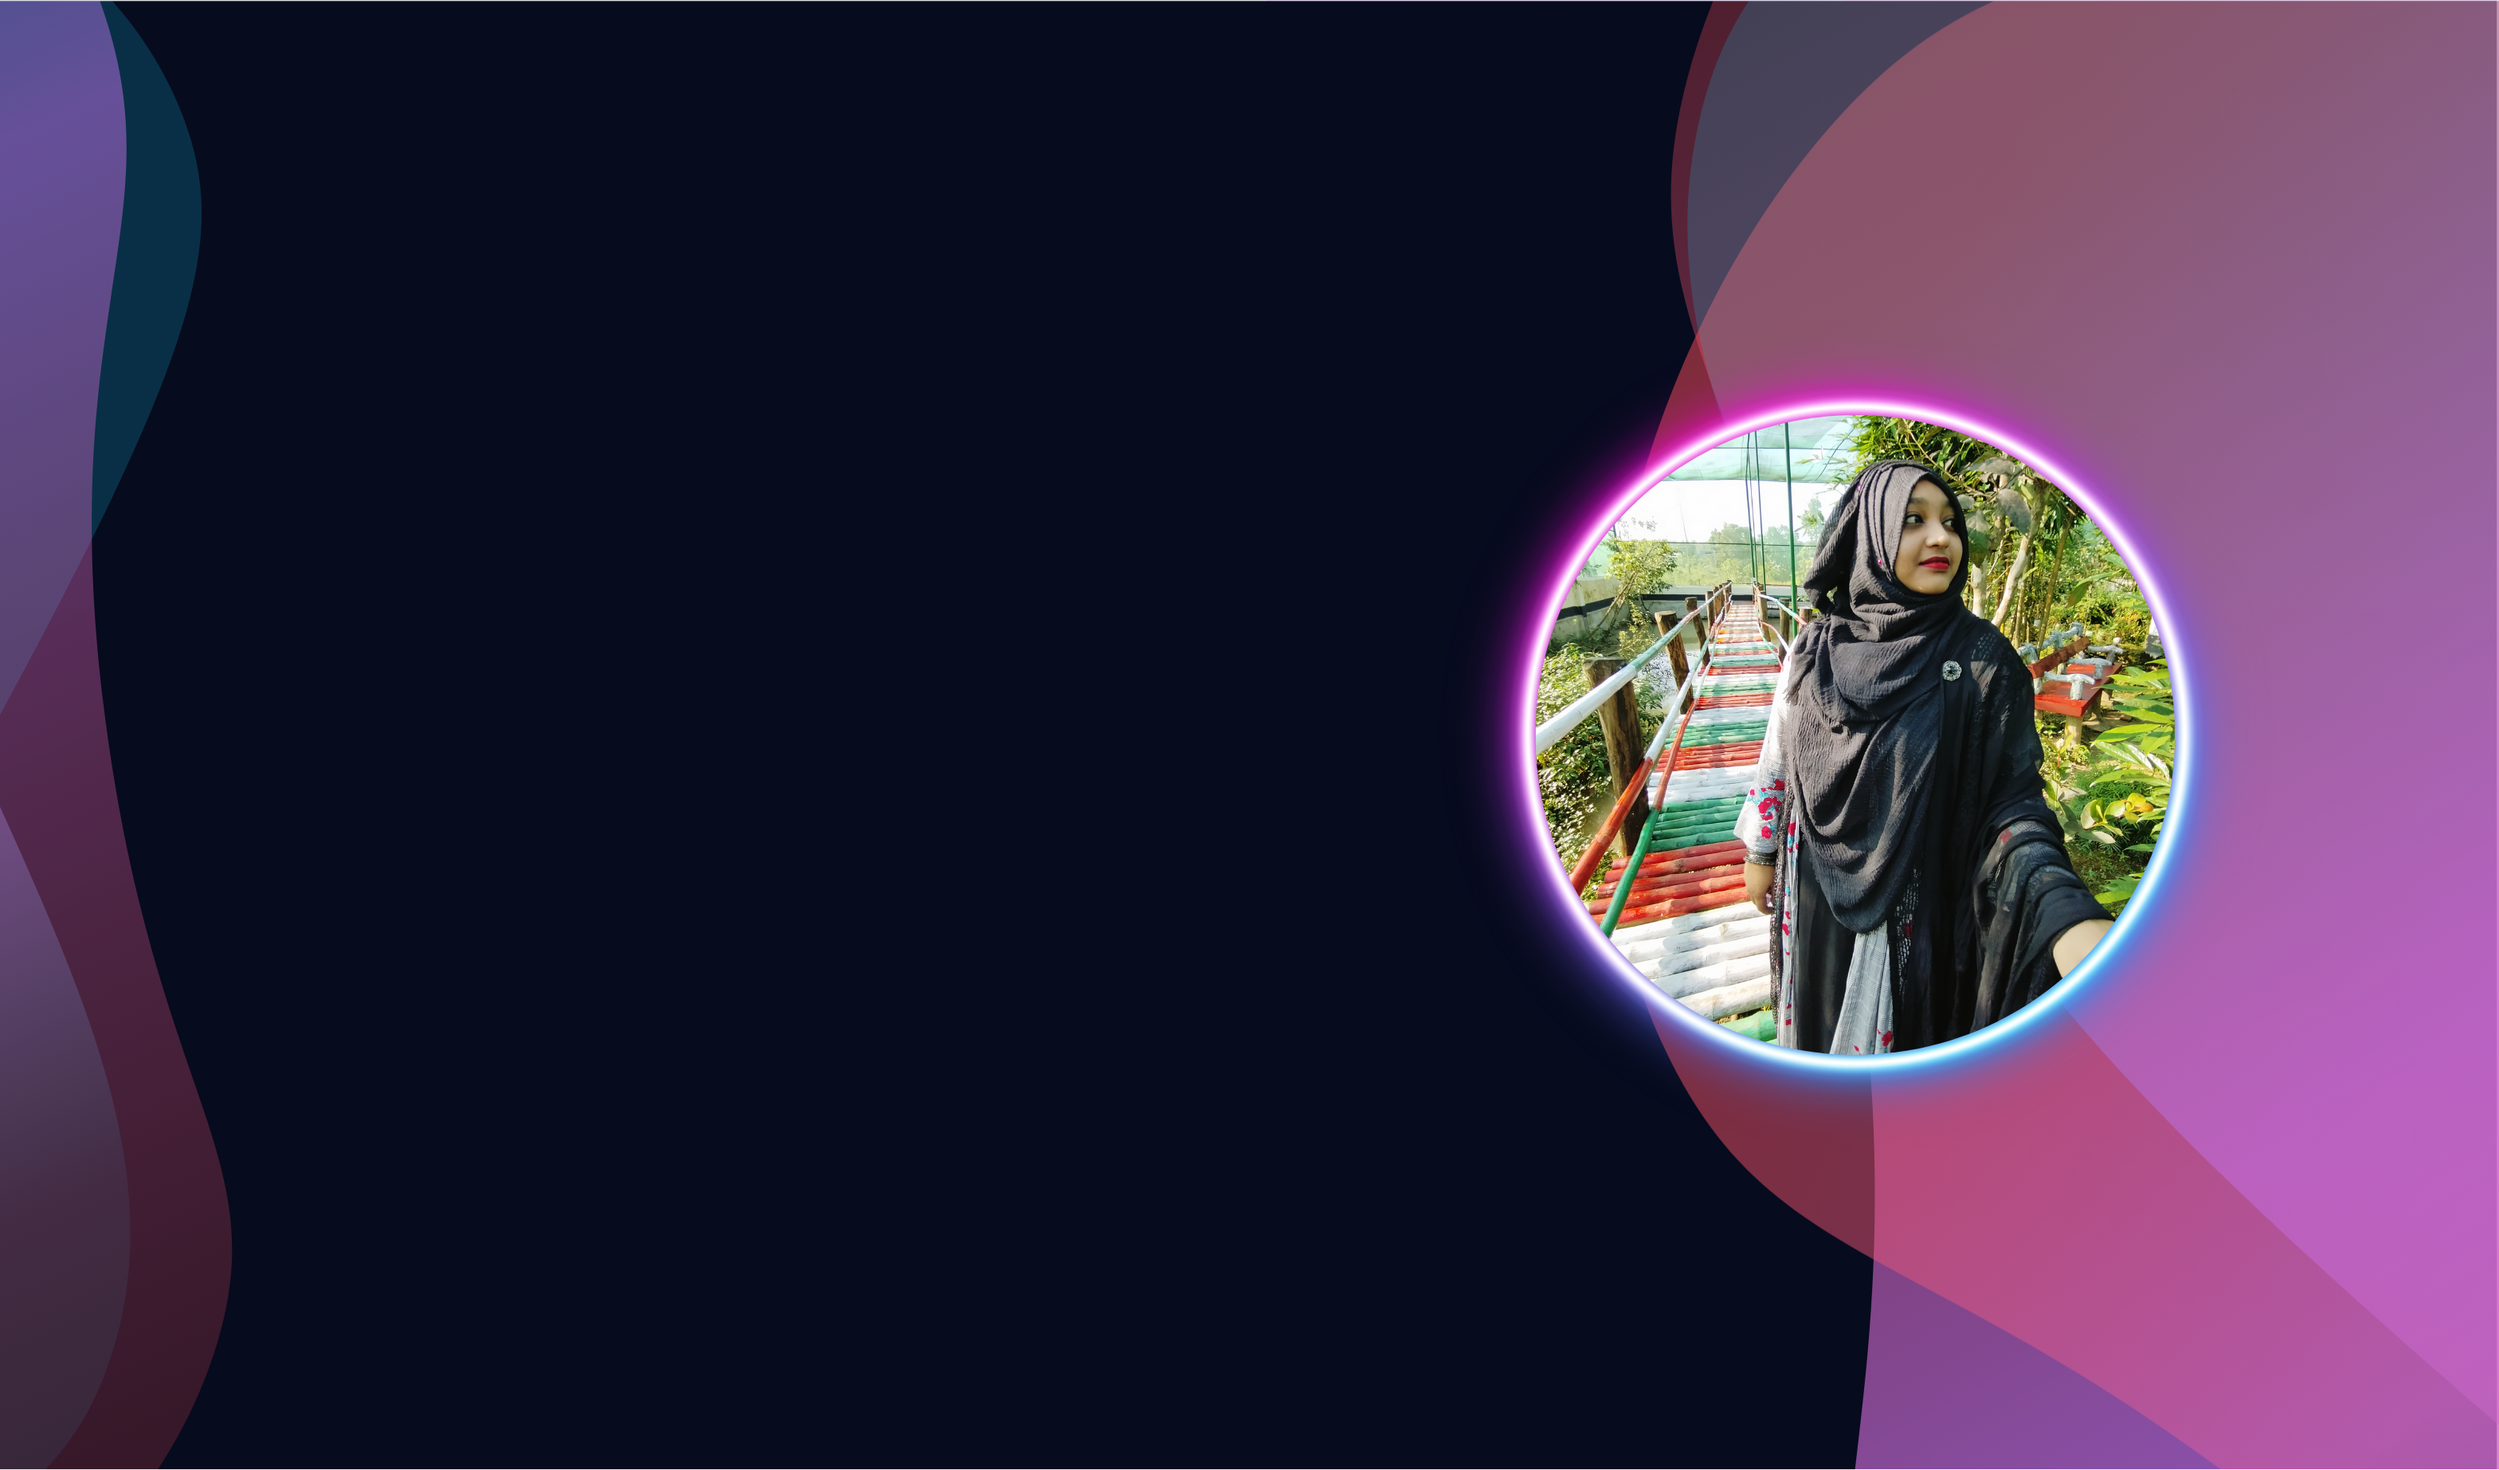
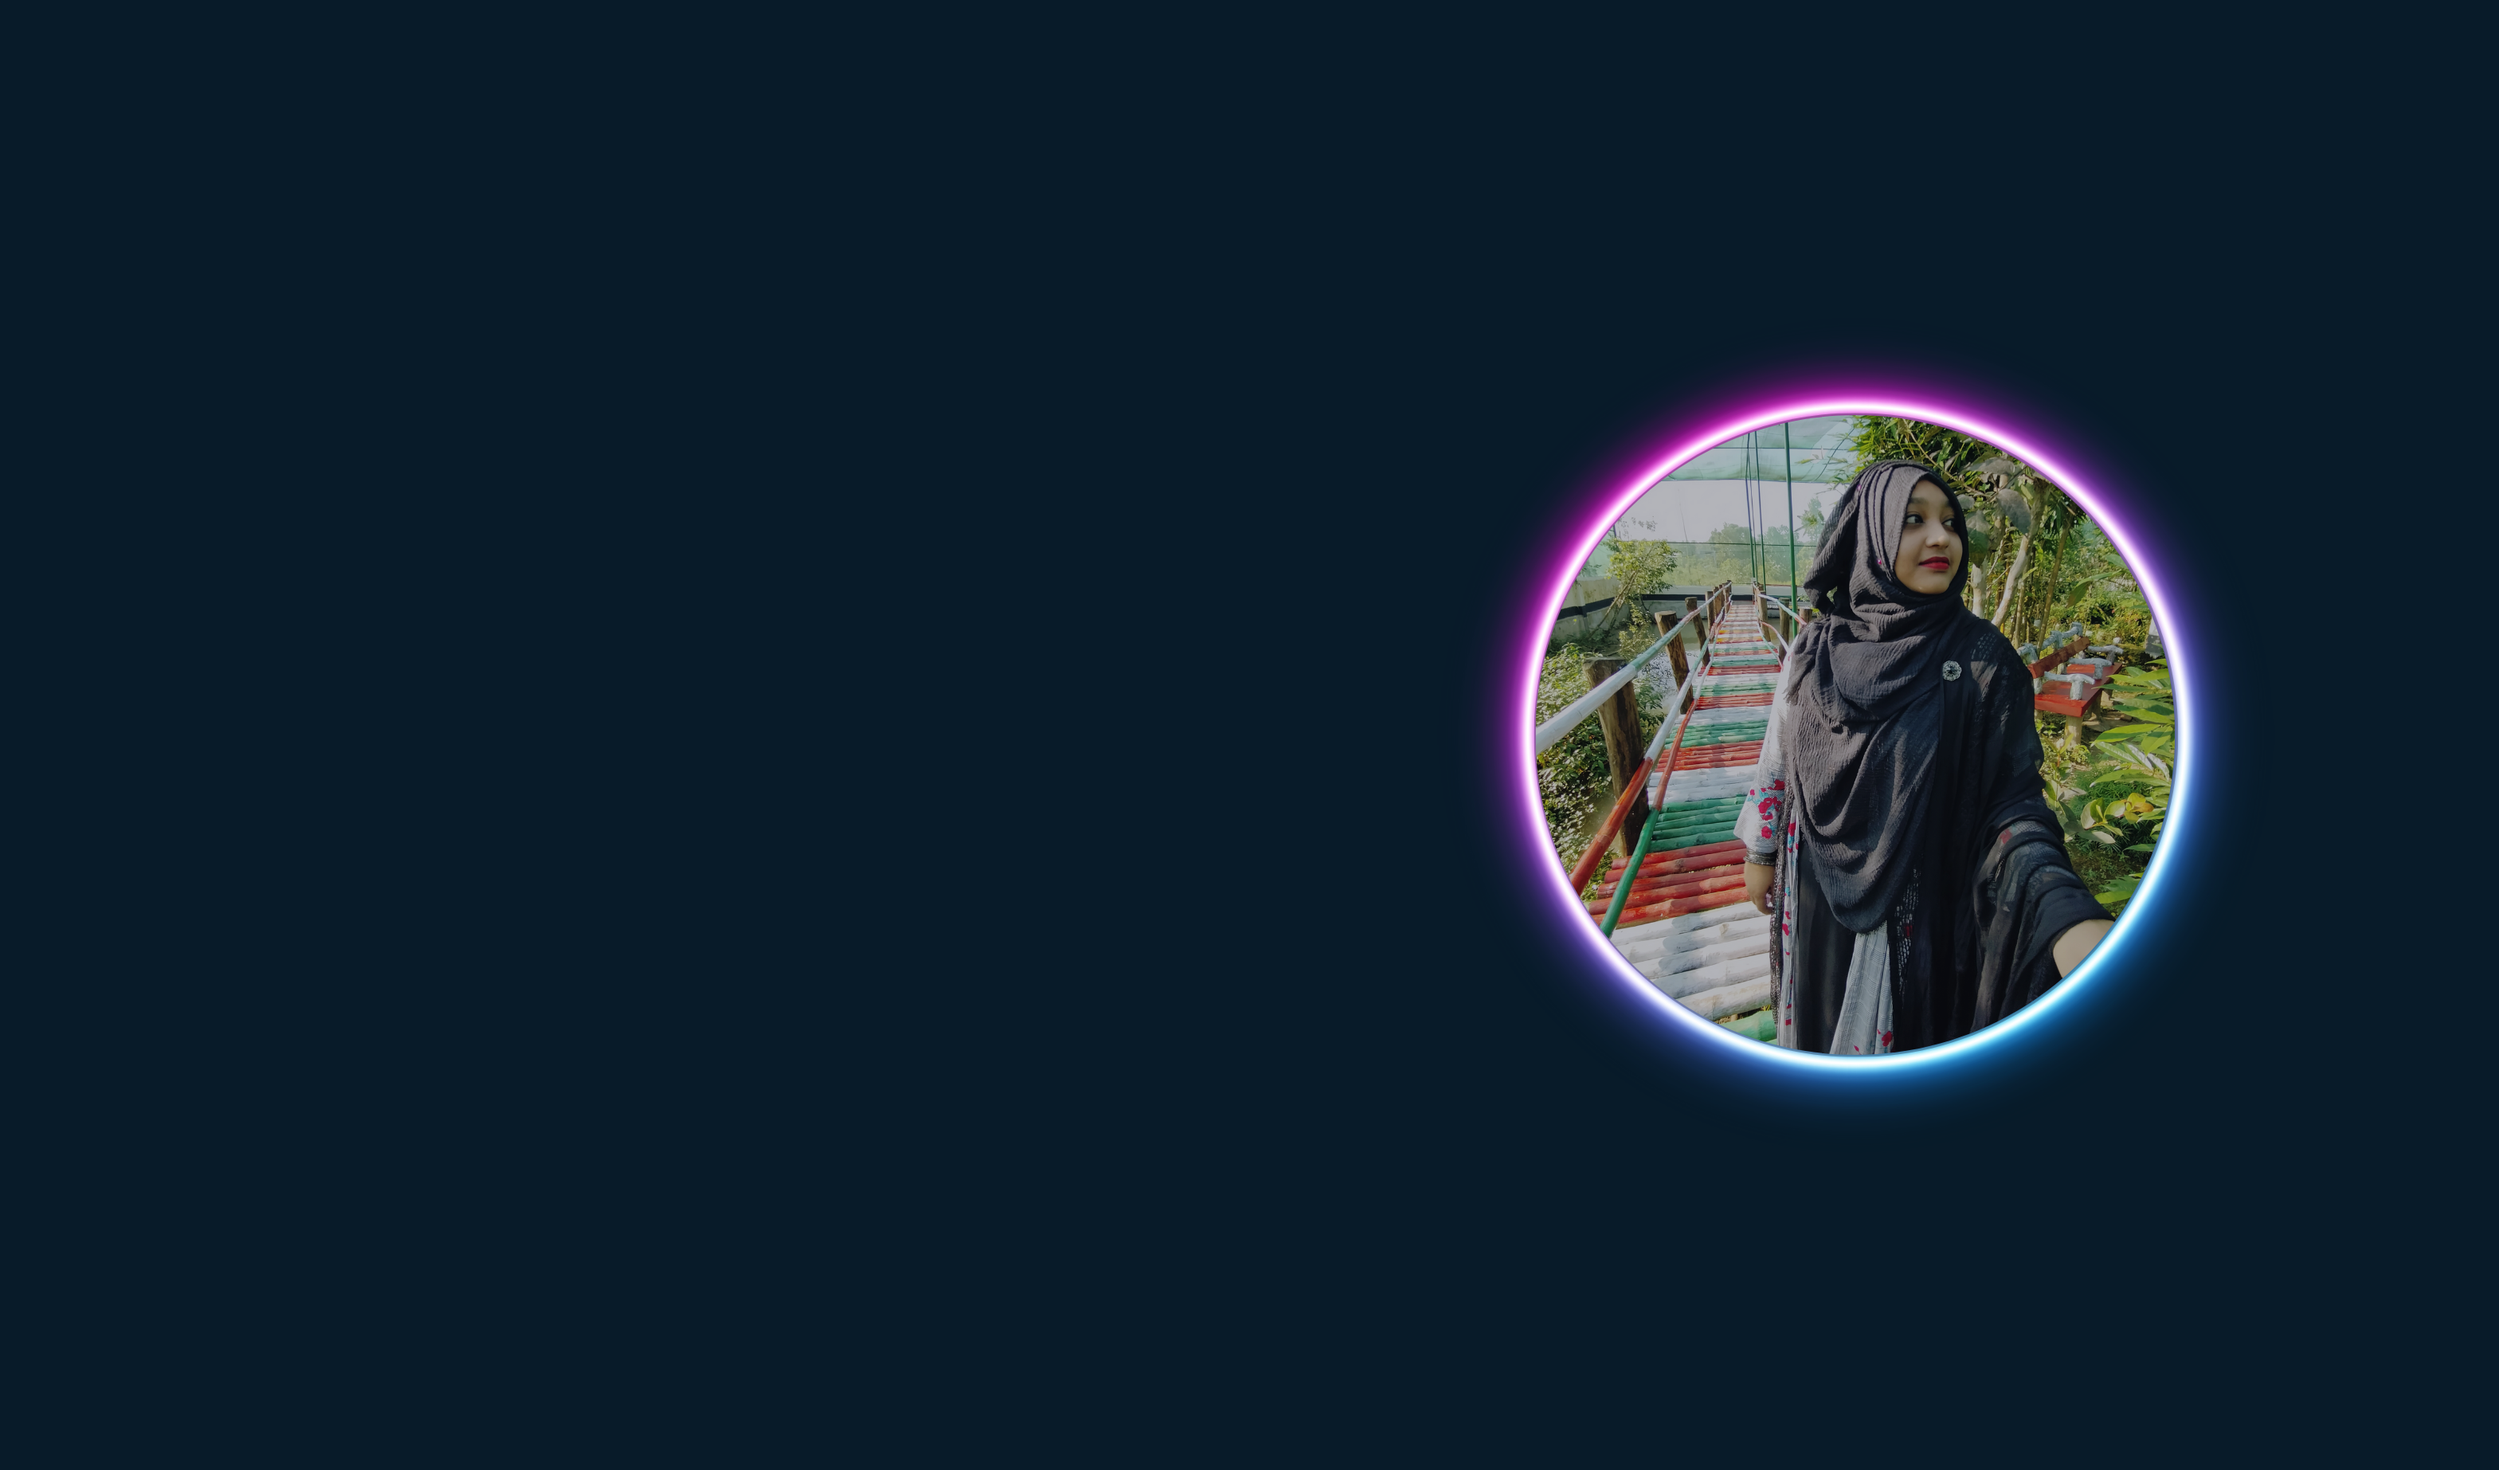
hero and about section complete

diff --git a/index.html b/index.html
@@ -14,7 +14,7 @@
 <body>
     <header class="header">
         <a href="index.html">
-            <img src="./assets/images/shuma.svg" alt="" class="logo">
+            <img src="./assets/images/logo.png" alt="" class="logo">
         </a>
 
         <nav class="navbar">
@@ -45,8 +45,57 @@
     </section>
 
     <section class="about" id="aboutSection">
-        <div class="about-img">
-            <img src="" alt="">
+        <div class="about-img-section">
+            <img src="./assets/images/shuma-img-about.png" alt="" class="about-img">
+        </div>
+        <div class="about-text">
+            <h2>About <span>Me</span></h2>
+            <h4>Web Designer!</h4>
+            <p>Hello! I'm an aspiring Front End Developer with a passion for designing appealing websites. I've
+                developed my HTML5, CSS3, Bootstrap, and JavaScript skills to ensure that your site looks amazing and
+                operates properly. In addition, I am competent in graphic design utilizing Adobe Illustrator, Photoshop,
+                and Canva, where I blend creativity with technical precision to create compelling visuals. While
+                developing my skills, I dabble with 3D modeling with Blender, which adds another layer of complexity to
+                my skill set. Let's work together to transform your ideas into beautifully designed digital experiences.
+            </p>
+            <a href="#" class="btn-box">Learn More</a>
+        </div>
+    </section>
+
+    <section>
+        <div class="services" id="servicesSection">
+            <div class="container">
+                <h1 class="sub-title">My <span>Services</span></h1>
+                <div class="services-list">
+                    <div>
+                        <i class='bx bx-layout' style='color:#00eeff'></i>
+                        <h2>UI/UX Designer</h2>
+                        <p>As a UI/UX designer, I specialize in crafting intuitive and visually appealing digital
+                            experiences. With a keen eye for detail and user-centric approach, I create seamless
+                            interactions that enhance user satisfaction. My designs merge aesthetics with functionality
+                            to elevate brands and engage audiences effectively.</p>
+                        <a href="#" class="read"></a>
+                    </div>
+                    <div>
+                        <i class='bx bx-code-alt' style='color:#00eeff'></i>
+                        <h2>Web Designer</h2>
+                        <p>I specialize in creating captivating web designs tailored to your unique vision and needs.
+                            With meticulous attention to detail and a keen eye for aesthetics, I bring your digital
+                            presence to life. Elevate your online brand with my expertise in frontend design and
+                            intuitive user experiences.</p>
+                        <a href="#" class="read"></a>
+                    </div>
+                    <div>
+                        <i class='bx bx-crop' style='color:#00eeff'></i>
+                        <h2>Graphics Designer</h2>
+                        <p>As a skilled graphics designer, I specialize in creating visually stunning designs tailored
+                            to your needs. With a keen eye for detail and creativity, I bring your ideas to life through
+                            captivating graphics that leave a lasting impression. Let me transform your vision into
+                            compelling visual narratives that elevate your brand.</p>
+                        <a href="#" class="read"></a>
+                    </div>
+                </div>
+            </div>
         </div>
     </section>
 

diff --git a/assets/css/style.css b/assets/css/style.css
@@ -7,6 +7,8 @@
 
 body {
     color: #ededed;
+    background: #081b29;
+
 }
 
 .header {
@@ -15,16 +17,16 @@ body {
     left: 0;
     width: 100%;
     padding: 1.25rem 10%;
-    background: transparent;
+    background: #051129;
     display: flex;
     justify-content: space-between;
     align-items: center;
-    z-index: 100;
+    z-index: 1000;
 }
 
 .logo {
     position: relative;
-    width: 3.125rem;
+    width: 18rem;
     cursor: default;
     opacity: 0;
     animation: slideRight 1s ease forwards;
@@ -146,6 +148,109 @@ body {
         0 0 25px cyan, 0 0 50px cyan,
         0 0 100px cyan, 0 0 200px cyan
 }
+
+/* about section */
+
+/* .about-img {
+    width: 21.875rem;
+} */
+
+.about {
+    display: grid;
+    grid-template-columns: repeat(2, 1fr);
+    align-items: center;
+    gap: 1.5rem;
+    /* margin-bottom: 8%; */
+}
+
+.about-img-section img {
+    padding-left: 20%;
+    max-width: 39.375rem;
+    height: auto;
+    width: 100%;
+    border-radius: 8px;
+}
+
+.about-text h2 {
+    font-size: 3.75rem;
+}
+
+.about-text h2 span {
+    color: #0ef;
+}
+
+.about-text h4 {
+    font-size: 1.813rem;
+    font-weight: 600;
+    color: #fff;
+    line-height: 1.7;
+    margin: 0.938rem 0 1.875rem;
+}
+
+.about-text p {
+    color: aliceblue;
+    font-size: 1.25rem;
+    line-height: 1.4;
+    margin-bottom: 4rem;
+    padding-right: 5.625rem;
+    text-align: justify;
+}
+
+/* services */
+
+#services {
+    color: aliceblue;
+    font-size: 1.25rem;
+    line-height: 1.4;
+    margin-bottom: 4rem;
+}
+
+.container {
+    padding: 5.625rem;
+}
+
+.services-list {}
+
+
+
+
+
+
+
+
+
+
+
+
+
+
+
+
+
+
+
+
+
+
+
+
+
+
+
+
+
+
+
+
+
+
+
+
+
+
+
+
+
 
 @keyframes slideRight {
     0% {
